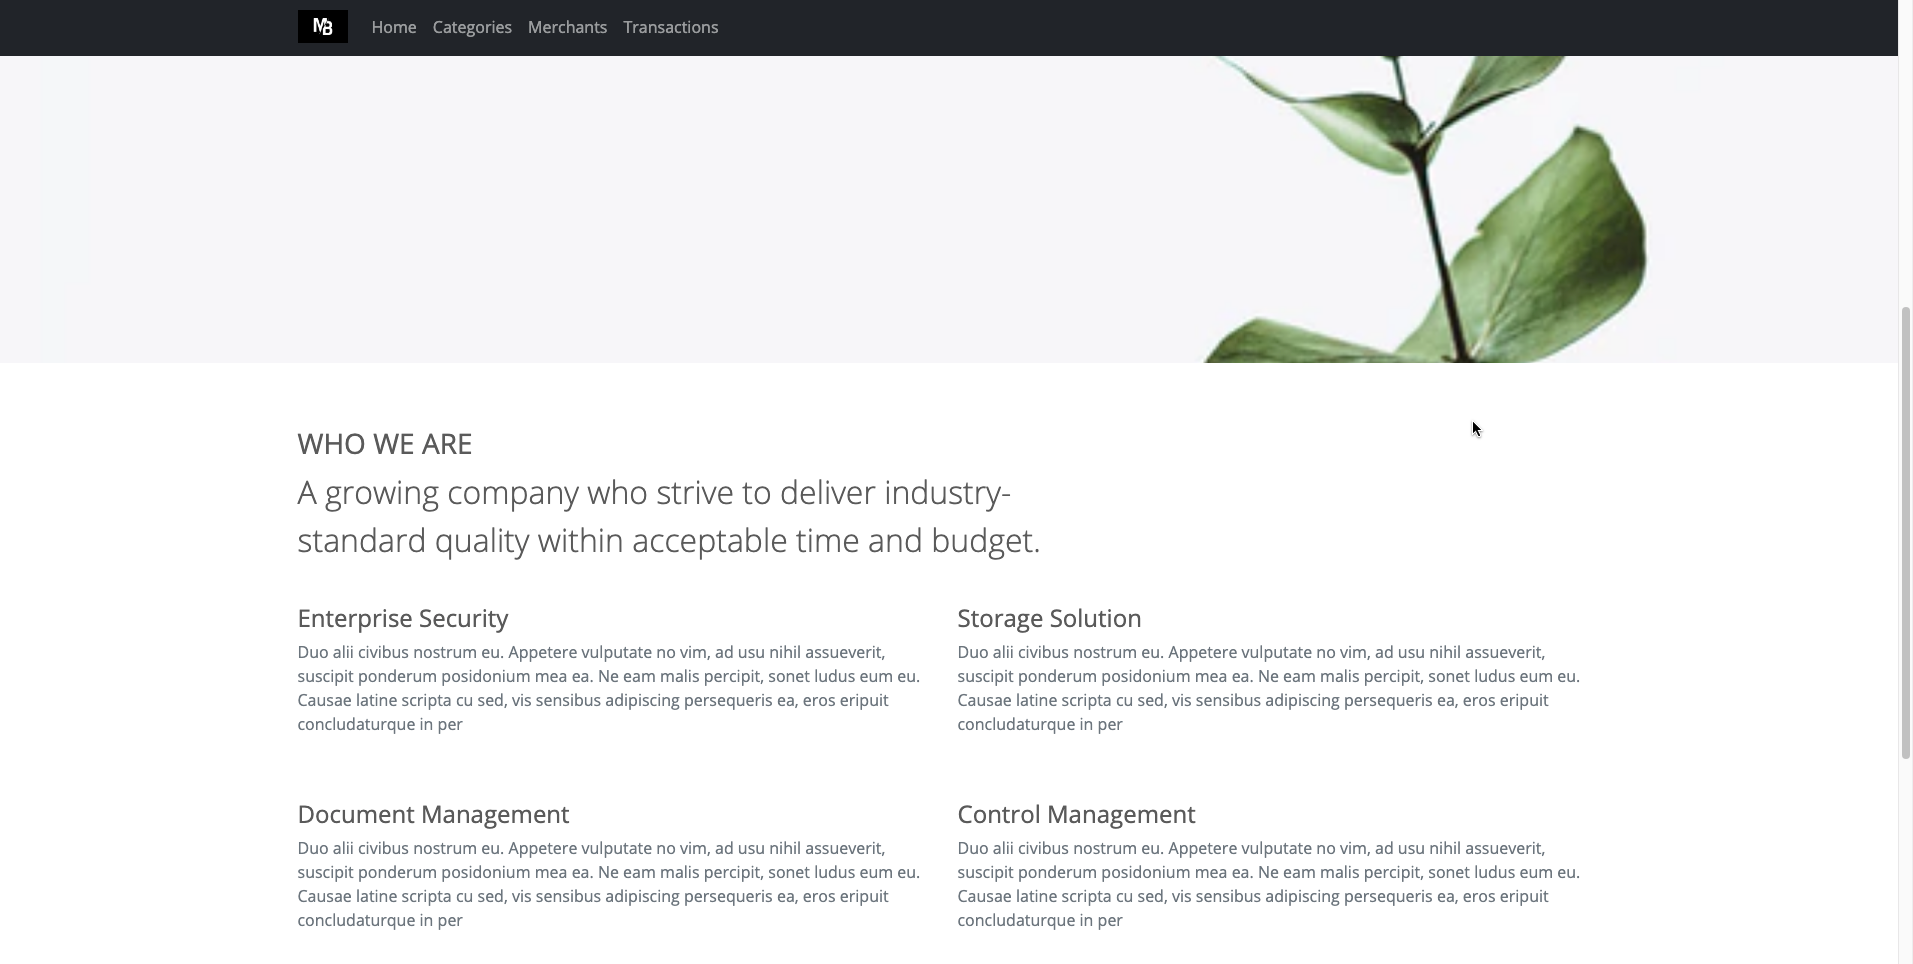
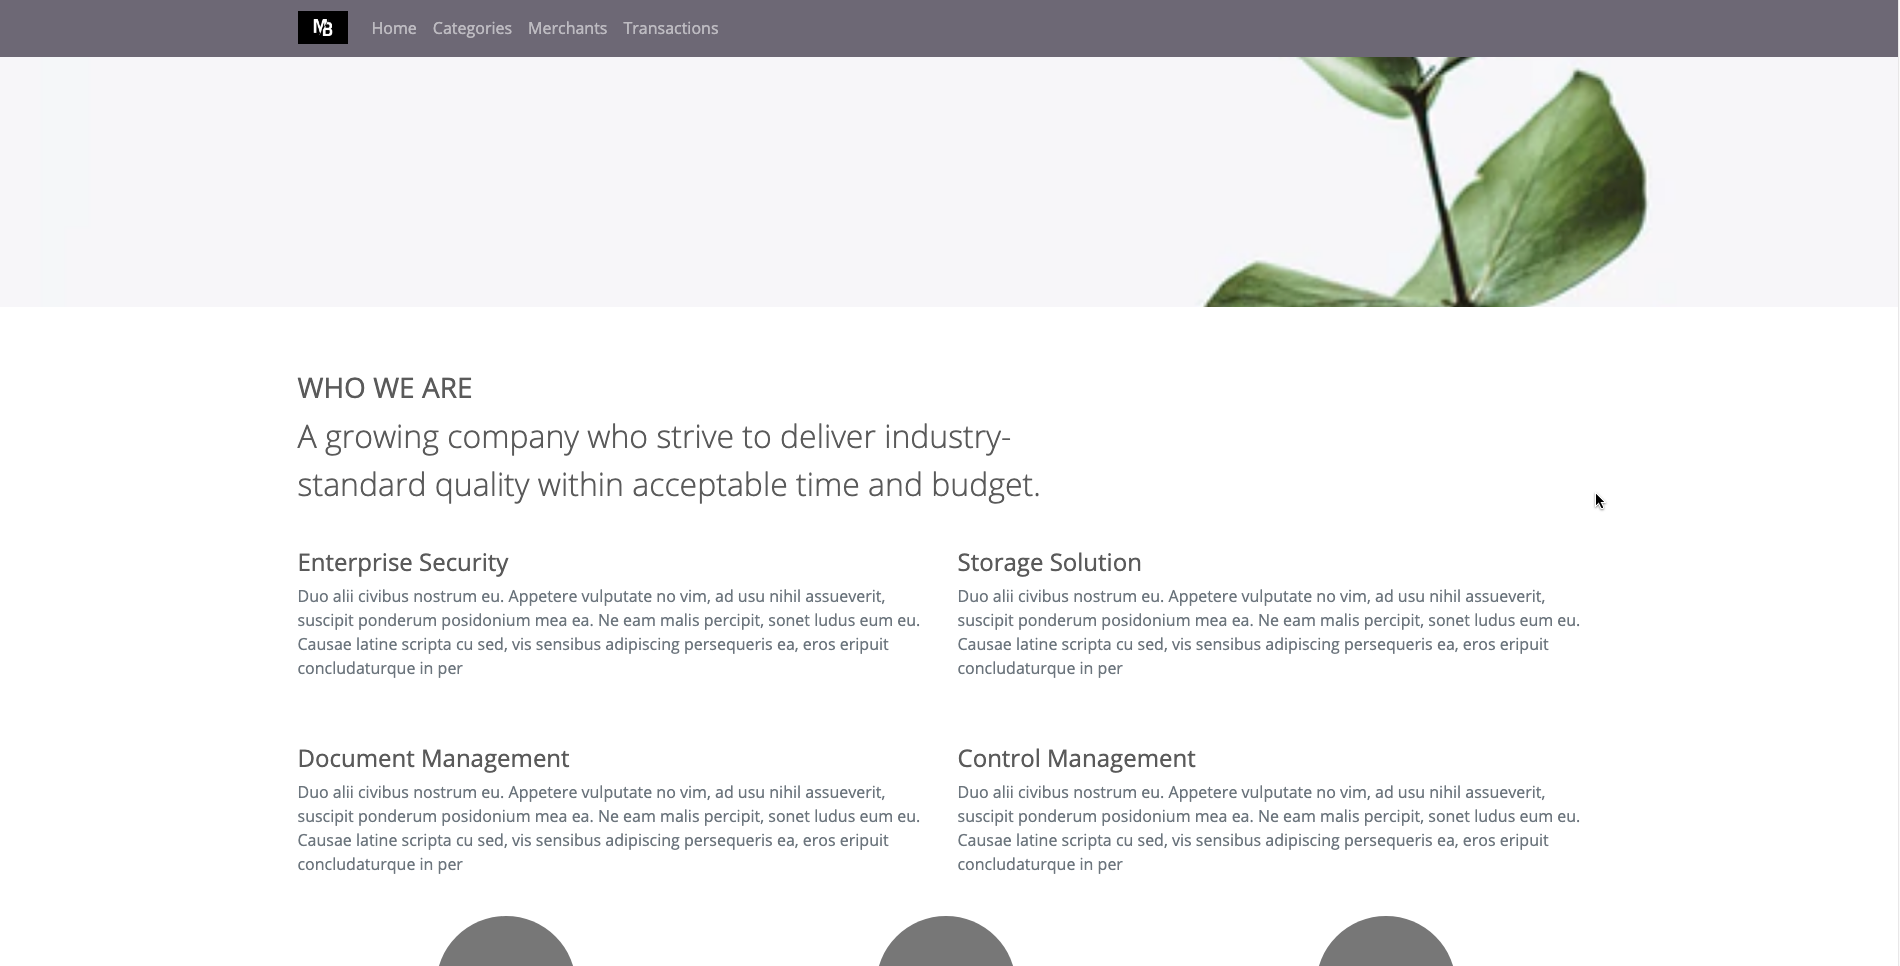
hero done (placeholder)

Changed region(s): [[0.1553, 0.3734, 0.8384, 1.0], [0.0, 0.0, 1.0, 0.3734], [0.9937, 0.3112, 1.0, 0.8091]]

diff --git a/public/style.css b/public/style.css
@@ -5,6 +5,69 @@ body {
     font-family: 'Open Sans';
 }
 
+.carousel, .hero {
+    margin-bottom: 4rem;
+}
+
+.carousel-caption {
+    bottom: 3rem;
+    z-index: 10;
+}
+
+.carousel-item {
+    height: 32rem;
+}
+.carousel-item > img {
+    position: absolute;
+    top: 0;
+    left: 0;
+    min-width: 100%;
+    height: 32rem;
+}
+
+.marketing .col-lg-4 {
+    margin-bottom: 1.5rem;
+    text-align: center;
+}
+
+.marketing h2 {
+    font-weight: 400;
+}
+
+.featurette-divider {
+    margin: 5rem 0;
+}
+
+.featurette-heading {
+    font-weight: 300;
+    line-height: 1;
+    letter-spacing: -.05rem;
+}
+
+@media (min-width: 40em) {
+
+.carousel-caption p {
+margin-bottom: 1.25rem;
+font-size: 1.25rem;
+line-height: 1.4;
+}
+
+.featurette-heading {
+    font-size: 50px;
+    }
+}
+
+@media (min-width: 62em) {
+    .featurette-heading {
+    margin-top: 7rem;
+    }
+}
+
+.marketing .col-lg-4 p {
+    margin-right: .75rem;
+    margin-left: .75rem;
+}
+
 nav.navbar {
     background-color: #6d6875;
 }
@@ -23,10 +86,6 @@ nav.navbar {
 
 .lead {
     font-size: 2em;
-}
-
-nav.navbar {
-    background-color: #6d6875;
 }
 
 .hero {
